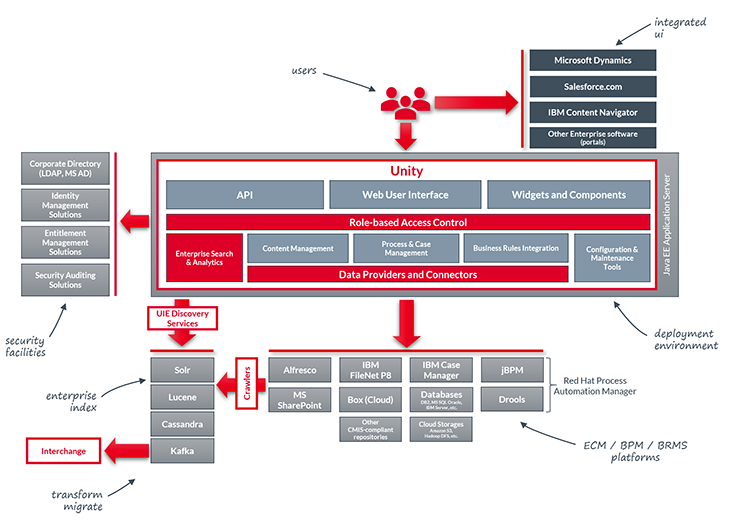
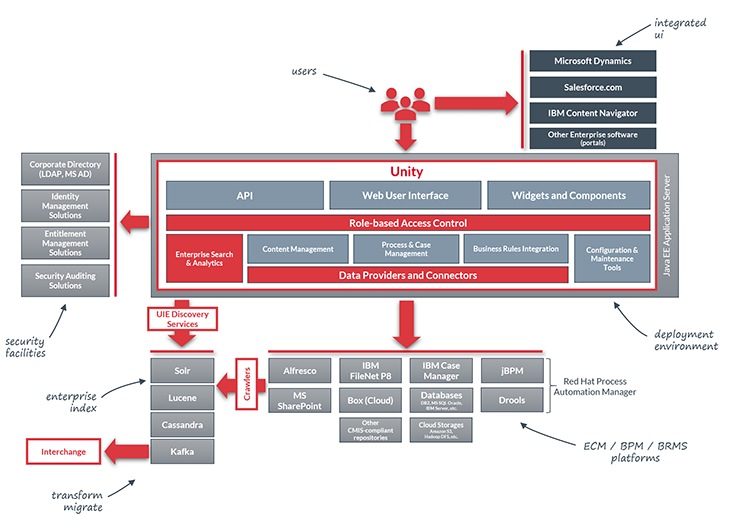
Changing png diagram image to svg

diff --git a/_docs/unity-overview.md b/_docs/unity-overview.md
@@ -148,4 +148,4 @@ Interchange is a complimentary product that works behind the scenes to give user
 
 ## Unity Components Diagram
 
-[![Unity components diagram](unity-overview/images/unity-component-diagram-updated-preview.png)](unity-overview/images/unity-component-diagram-updated.png)
+[![Unity components diagram](unity-overview/images/unity-components-diagram-vector.svg)](unity-overview/images/unity-component-diagram-updated.png)
